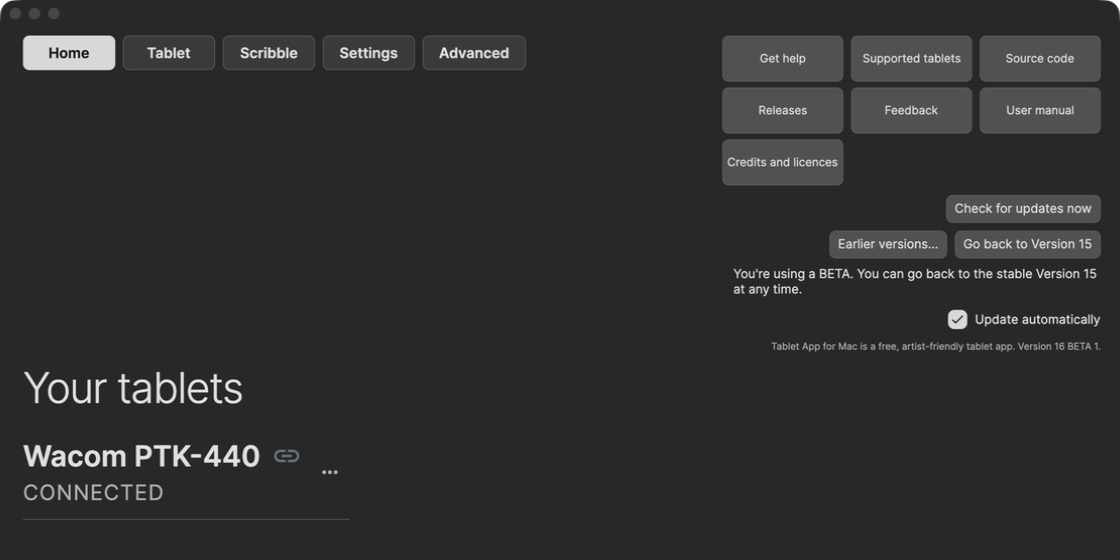
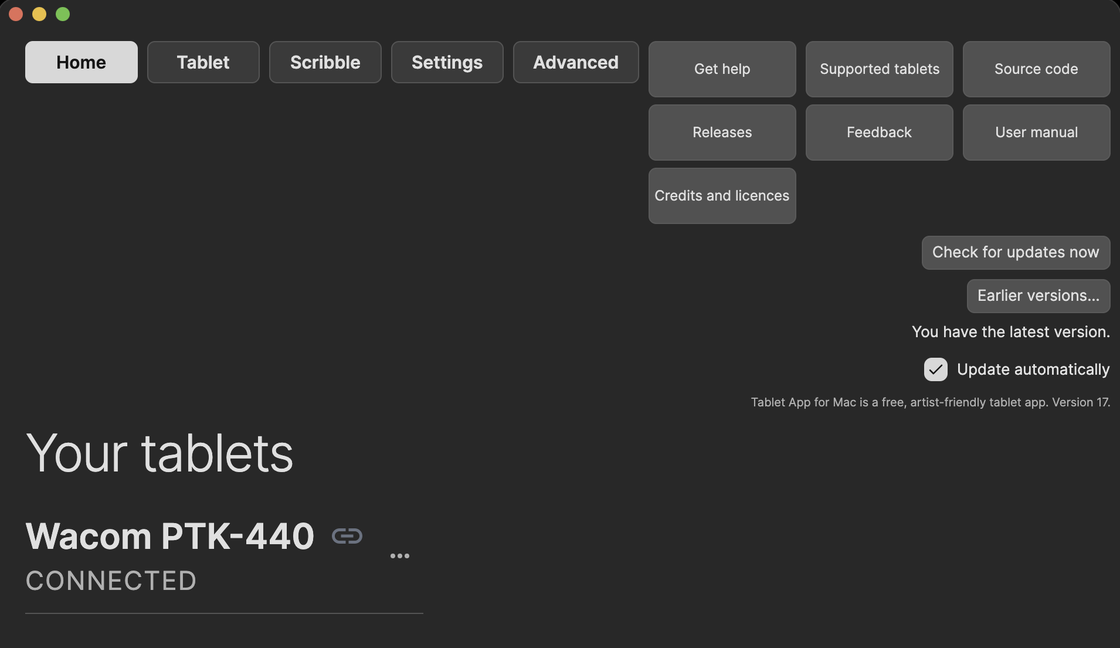
Site: Home screenshot shows Version 17 (home page and Help)

diff --git a/index.html b/index.html
@@ -19,7 +19,7 @@
 </ol>
 <p><strong>Tip:</strong> if the pen still doesn't move the pointer, select Tablet App for Mac in those two lists, remove it with <strong>−</strong>, add it again with <strong>+</strong>, then reopen the app. Need more help? See the <a href="help/">user manual</a>.</p></section>
 
-<figure class="slot" data-slot="02-home-overview"><picture><source type="image/webp" srcset="/tablet-app-for-mac/assets/shots/02-home-overview.webp"><img src="/tablet-app-for-mac/assets/shots/02-home-overview.png" alt="Home page of Tablet App for Mac, Version 16 BETA 1, with the connected tablet, Check for updates now, Earlier versions and Go back to Version 15" width="1120" height="560" loading="eager" decoding="async"></picture><figcaption>Home: your tablets and updates. Earlier versions… takes you back to an older version.</figcaption></figure><ul class="facts"><li>Free and open source (GPL-3.0)</li><li>No tracking or telemetry</li><li>For Apple silicon Macs</li><li>Tested on macOS 27.0.1 with an Intuos4 Small (PTK-440)</li><li><a href="/tablet-app-for-mac/tablets/">All supported Wacom tablets</a></li></ul>
+<figure class="slot" data-slot="02-home-overview"><picture><source type="image/webp" srcset="/tablet-app-for-mac/assets/shots/02-home-overview.webp"><img src="/tablet-app-for-mac/assets/shots/02-home-overview.png" alt="Home page of Tablet App for Mac, Version 17, with the connected tablet, Check for updates now and Earlier versions" width="1120" height="648" loading="eager" decoding="async"></picture><figcaption>Home: your tablets and updates. Earlier versions… takes you back to an older version.</figcaption></figure><ul class="facts"><li>Free and open source (GPL-3.0)</li><li>No tracking or telemetry</li><li>For Apple silicon Macs</li><li>Tested on macOS 27.0.1 with an Intuos4 Small (PTK-440)</li><li><a href="/tablet-app-for-mac/tablets/">All supported Wacom tablets</a></li></ul>
 <p class="muted">Tested only on that system and tablet. Use at your own risk.</p>
 <h2>What is new in Version 17</h2><ul><li>Going back to Version 15 (with <strong>Earlier versions…</strong>) no longer turns your ring modes backwards when you update again.</li><li>Photoshop: the Smooth zoom tip says to untick <strong>Zoom with Scroll Wheel</strong> if the ring moves the canvas instead of zooming.</li></ul><h3>Version 16</h3><ul><li>The touch ring turns the right way: clockwise zooms in, makes the brush bigger and rotates the canvas clockwise.</li><li>Ring settings for a selected app stay changed, and Speed works for every smooth ring mode.</li><li>Affinity: smooth zoom and smooth rotate with the touch ring.</li><li>Pen scroll (contributed by ftrabbold): hold a pen button or an ExpressKey and move the pen to scroll.</li><li>Better support for more Wacom tablets: touch strips on Intuos3 and older Cintiqs, the Cintiq 13HD centre button, the 2017 Intuos Pro ring direction and the Bamboo Fun ring.</li></ul>
 <figure class="slot" data-slot="34-ring-turn"><picture><source type="image/webp" srcset="/tablet-app-for-mac/assets/shots/34-ring-turn.webp"><img src="/tablet-app-for-mac/assets/shots/34-ring-turn.png" alt="Touch ring page with the finger on the ring" width="1200" height="1363" loading="eager" decoding="async"></picture><figcaption>Touch ring: the active mode is lit, its number is on the centre button, and the angle and direction show under the ring.</figcaption></figure>

diff --git a/help/index.html b/help/index.html
@@ -29,7 +29,7 @@
 <li>At login the app starts silently: only the pen icon in the menu bar shows. Click it to open the window.</li>
 <li>Only one copy runs. Opening the app again brings the running copy to the front.</li>
 </ul><p class="backtop"><a href="#chapters">↑ Back to chapters</a></p></section>
-<section class="chap" id="home" aria-labelledby="home-h"><h2 id="home-h">Home</h2><figure><picture><source type="image/webp" srcset="/tablet-app-for-mac/assets/manual/02-home-overview.webp"><source type="image/png" srcset="/tablet-app-for-mac/assets/manual/02-home-overview.png"><img src="/tablet-app-for-mac/assets/manual/02-home-overview.webp" alt="Home" width="960" height="480" loading="eager" decoding="async"></picture><figcaption>Home</figcaption></figure>
+<section class="chap" id="home" aria-labelledby="home-h"><h2 id="home-h">Home</h2><figure><picture><source type="image/webp" srcset="/tablet-app-for-mac/assets/manual/02-home-overview.webp"><source type="image/png" srcset="/tablet-app-for-mac/assets/manual/02-home-overview.png"><img src="/tablet-app-for-mac/assets/manual/02-home-overview.webp" alt="Home" width="960" height="555" loading="eager" decoding="async"></picture><figcaption>Home</figcaption></figure>
 <ul>
 <li><strong>Your tablets</strong>: one card per connected or remembered tablet. Click a card to open its settings.</li>
 <li>Card <strong>⋯</strong> menu: <strong>Open tablet settings</strong>, <strong>Forget this tablet</strong>.</li>
